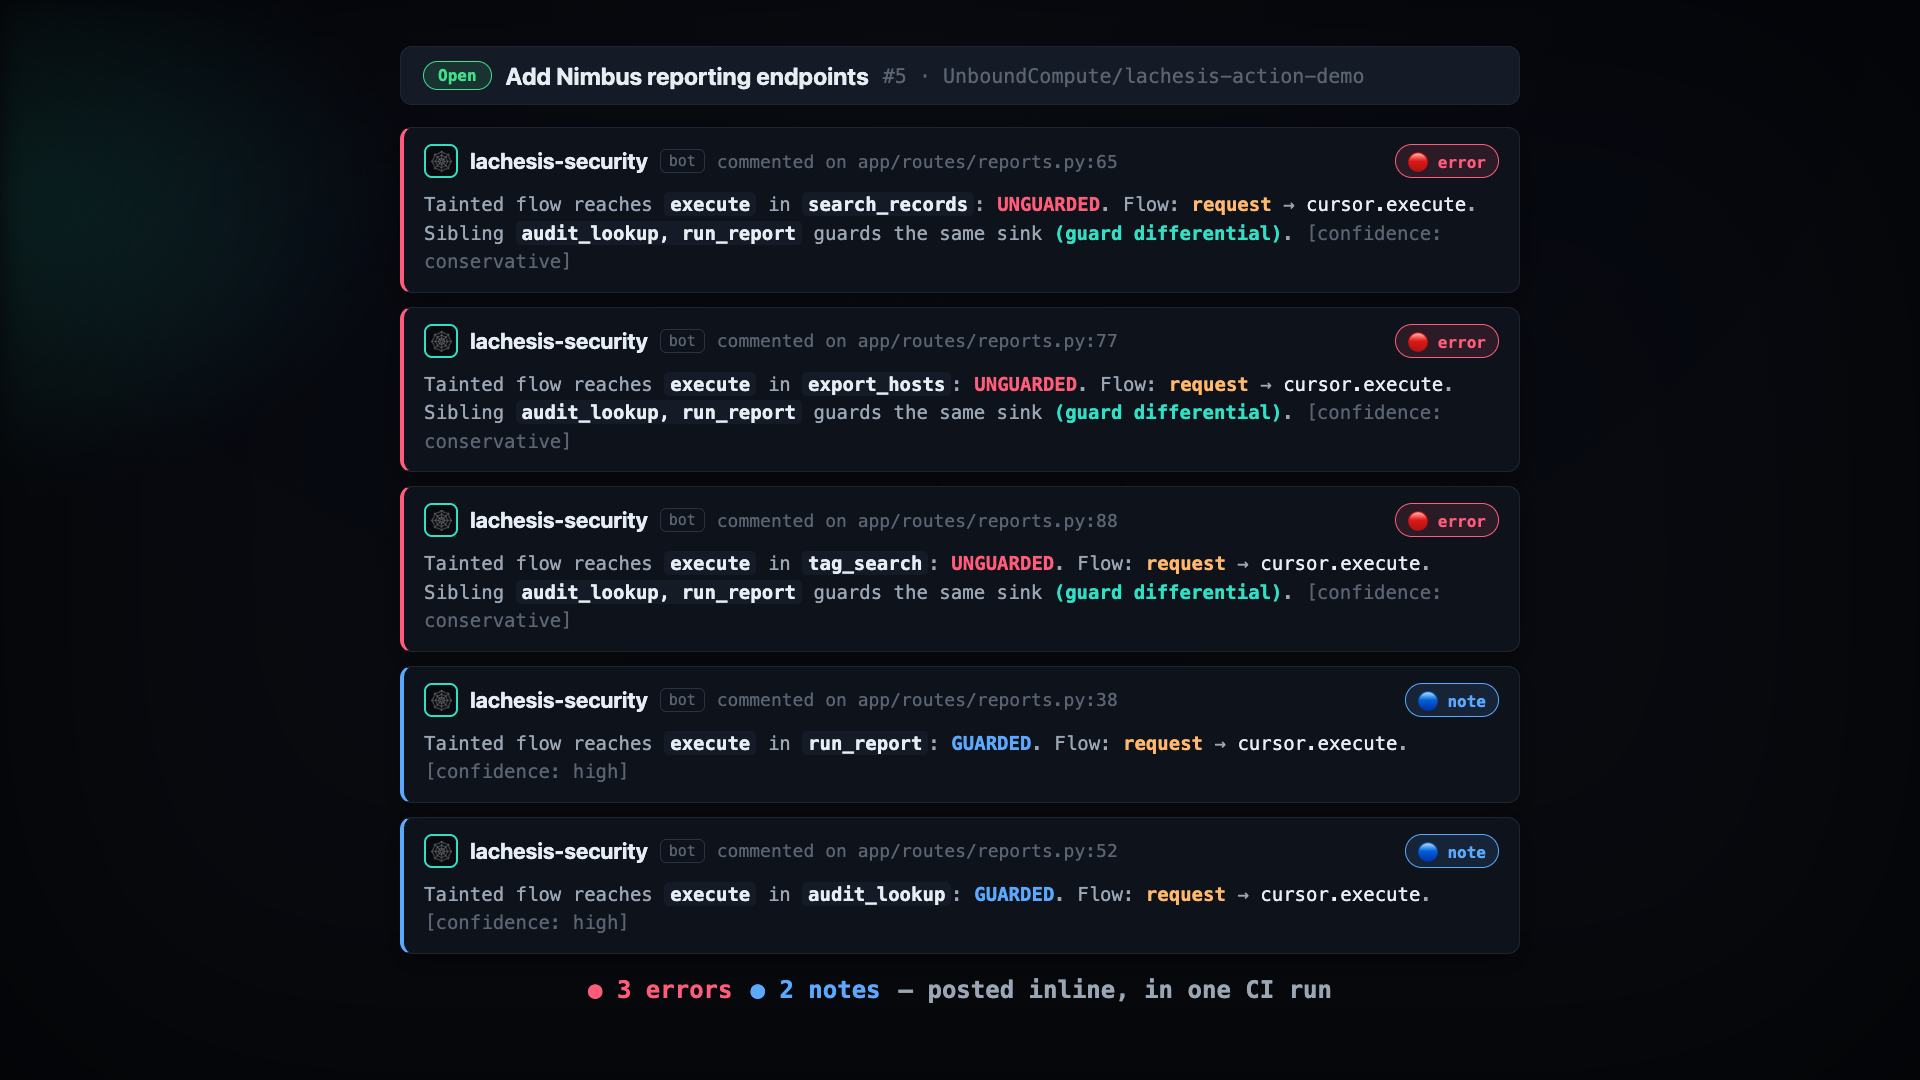
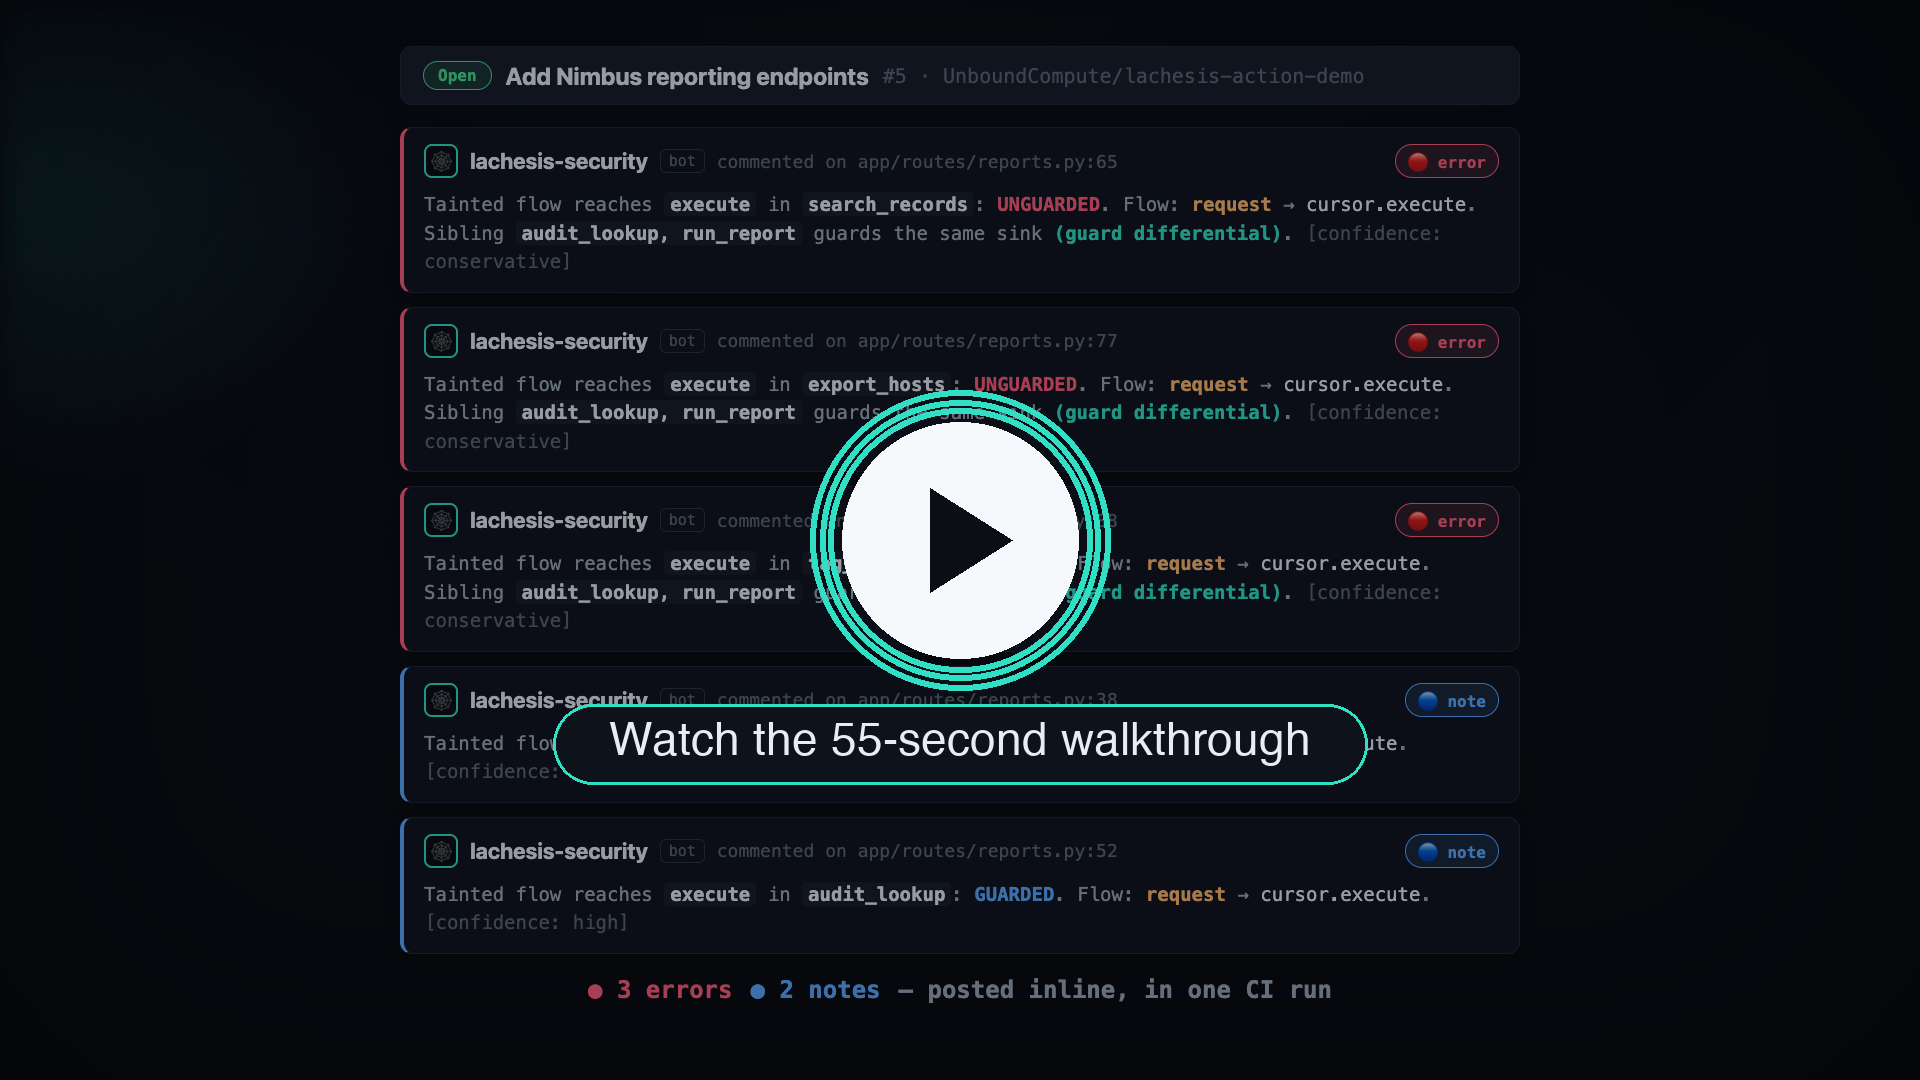
README: use clickable play-button thumbnail linking to live demo
GitHub markdown strips <video> tags whose src is not a user-attachments
URL, so the inline player never rendered on the Marketplace listing.
Replace it with a play-button poster (absolute raw URL, renders
everywhere) linked to the live playing walkthrough on the landing page.

diff --git a/README.md b/README.md
@@ -32,14 +32,9 @@ ranks as an `error`:
 
 ## Watch it work
 
-<video src="https://raw.githubusercontent.com/UnboundCompute/lachesis-action/main/demo/lachesis-demo.mp4" poster="https://raw.githubusercontent.com/UnboundCompute/lachesis-action/main/demo/lachesis-demo-poster.png" controls muted loop playsinline width="100%"></video>
+[![Watch the 55-second Lachesis walkthrough](https://raw.githubusercontent.com/UnboundCompute/lachesis-action/main/demo/lachesis-demo-poster.png)](https://unboundcompute.com/lachesis.html)
 
-[![Lachesis posts five inline findings on a live pull request](demo/lachesis-demo-poster.png)](https://github.com/UnboundCompute/lachesis-action-demo/pull/5)
-
-A 55-second walkthrough on a real pull request: a Flask control plane where three
-handlers reach the same SQL sink unguarded while two siblings authorize first. The
-Action posts five inline comments — three guard-differential **errors** and two
-guarded **notes** — [**see them live on the pull request →**](https://github.com/UnboundCompute/lachesis-action-demo/pull/5)
+▶ **[Play the 55-second walkthrough](https://unboundcompute.com/lachesis.html)** — a real pull request on a Flask control plane where three handlers reach the same SQL sink unguarded while two siblings authorize first. The Action posts five inline comments — three guard-differential **errors** and two guarded **notes** — [**see them live on the pull request →**](https://github.com/UnboundCompute/lachesis-action-demo/pull/5)
 
 ## See it find the bug
 
